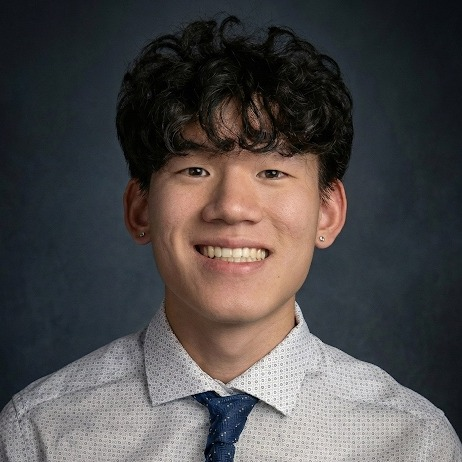
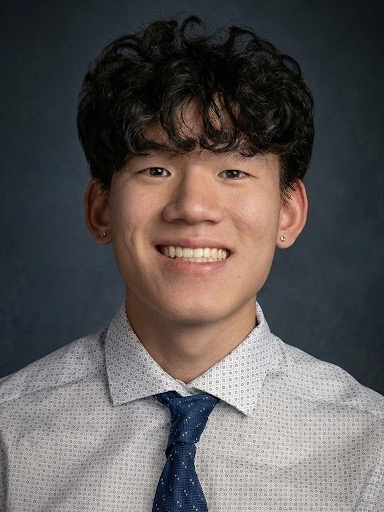
fix(site): restore hero entrance under reduced motion, monochrome cursor, portrait headshot
The hero resolve and the cursor were both gated on prefers-reduced-motion, so a
machine with Reduce Motion on saw a static mark and no cursor. Reduced motion
should reduce, not delete:

- PsiField now animates for everyone. Reduced motion gets a staggered
  top-to-bottom opacity sweep with every particle already at its target, so the
  mark still assembles without anything travelling across the screen. Scroll
  dissolve becomes opacity-only on the same path.
- The synchronous first paint is now conditional on document.hidden, so a
  visible tab is allowed to play the entrance instead of skipping to the end,
  and a background tab restarts the clock when it is first shown.
- Particles keep a slow per-phase pulse after resolving so the mark stays alive.
- Cursor is monochrome. The lock state reads as ring weight and size rather
  than a hue change.
- Headshot recropped to 3:4 portrait; team placeholders match.

diff --git a/src/components/PsiField.jsx b/src/components/PsiField.jsx
@@ -59,37 +59,50 @@ export function PsiField () {
       return found
     }
 
-    function render (progress) {
+    /**
+     * `pos` moves particles from noise to the glyph; `alpha` fades them in.
+     * Splitting the two is what lets reduced motion still have an entrance:
+     * the mark assembles in opacity while every particle stays put, so nothing
+     * travels across the screen.
+     */
+    function render (pos, alpha) {
       ctx.clearRect(0, 0, w, h)
-      if (!points.length) return
+      if (!points.length || alpha <= 0) return
 
       const cool = readToken('--color-cool', '#6E9BFF')
       const muted = readToken('--color-muted', '#6F7C90')
       const reduced = reducedQuery.matches
 
       // soft bloom so the mark reads against the ground
-      if (progress > 0.15) {
+      if (pos > 0.15) {
         const mid = points[Math.floor(points.length / 2)]
         const glow = ctx.createRadialGradient(mid.tx, mid.ty, 0, mid.tx, mid.ty, Math.min(w, h) * 0.42)
-        glow.addColorStop(0, `rgba(110, 155, 255, ${(0.13 * progress).toFixed(3)})`)
+        glow.addColorStop(0, `rgba(110, 155, 255, ${(0.13 * pos * alpha).toFixed(3)})`)
         glow.addColorStop(1, 'rgba(110, 155, 255, 0)')
         ctx.fillStyle = glow
         ctx.fillRect(0, 0, w, h)
       }
 
-      ctx.fillStyle = progress > 0.55 ? cool : muted
+      ctx.fillStyle = pos > 0.55 ? cool : muted
       for (let i = 0; i < points.length; i++) {
         const p = points[i]
-        const drift = reduced ? 0 : Math.sin(frame * 0.011 + p.phase) * (1 - progress) * 8
+        const drift = reduced ? 0 : Math.sin(frame * 0.011 + p.phase) * (1 - pos) * 8
+        // Once resolved, each particle keeps breathing on its own phase, so the
+        // mark stays alive rather than freezing into a static logo.
+        const pulse = reduced ? 1 : 1 + Math.sin(frame * 0.02 + p.phase) * 0.32 * pos
+        // Staggering the fade by height makes the mark develop top-to-bottom
+        // like a scan rather than flashing on all at once. It is the entrance
+        // reduced-motion users get in place of the travelling particles.
+        const local = alpha >= 1 ? 1 : Math.max(0, Math.min(1, alpha * 1.6 - p.stagger * 0.6))
         ctx.beginPath()
         ctx.arc(
-          p.nx + (p.tx - p.nx) * progress + drift,
-          p.ny + (p.ty - p.ny) * progress + drift * 0.55,
-          1.35 + progress * 0.85,
+          p.nx + (p.tx - p.nx) * pos + drift,
+          p.ny + (p.ty - p.ny) * pos + drift * 0.55,
+          1.35 + pos * 0.85,
           0,
           Math.PI * 2
         )
-        ctx.globalAlpha = 0.24 + progress * 0.56
+        ctx.globalAlpha = (0.24 + pos * 0.56) * local * pulse
         ctx.fill()
       }
       ctx.globalAlpha = 1
@@ -97,10 +110,16 @@ export function PsiField () {
 
     function loop () {
       frame++
-      const e = Math.min(1, (performance.now() - started) / 2400)
-      const resolve = e * e * (3 - 2 * e)
+      const reduced = reducedQuery.matches
+      const e = Math.min(1, (performance.now() - started) / (reduced ? 1400 : 2400))
+      const eased = e * e * (3 - 2 * e)
       const scrolled = Math.min(1, window.scrollY / Math.max(1, window.innerHeight * 0.9))
-      render(Math.max(0, resolve - scrolled))
+
+      // Reduced motion: particles are already home, the entrance is pure fade,
+      // and scrolling dissolves the mark by opacity instead of by displacement.
+      if (reduced) render(1, Math.max(0, eased - scrolled))
+      else render(Math.max(0, eased - scrolled), 1)
+
       raf = requestAnimationFrame(loop)
     }
 
@@ -118,6 +137,8 @@ export function PsiField () {
       const targets = glyphTargets()
       const cap = window.innerWidth < 700 ? 700 : 1500
       const count = Math.min(targets.length, cap)
+      const top = Math.min(...targets.map((t) => t.y))
+      const span = Math.max(1, Math.max(...targets.map((t) => t.y)) - top)
       points = []
       for (let i = 0; i < count; i++) {
         const t = targets[Math.floor((i * targets.length) / count)]
@@ -127,14 +148,18 @@ export function PsiField () {
           ny: Math.random() * h,
           tx: t.x,
           ty: t.y,
-          phase: Math.random() * Math.PI * 2
+          phase: Math.random() * Math.PI * 2,
+          // mostly a top-to-bottom sweep, softened so the edge is not a hard line
+          stagger: Math.min(1, ((t.y - top) / span) * 0.85 + Math.random() * 0.15)
         })
       }
 
       started = performance.now()
-      const reduced = reducedQuery.matches
-      render(reduced ? 1 : 0)
-      if (!reduced) raf = requestAnimationFrame(loop)
+      // A hidden tab never runs rAF, so paint the resolved mark straight away
+      // rather than leaving the hero empty. A visible tab starts from noise and
+      // is allowed to animate — that entrance is the whole point of the hero.
+      if (document.hidden) render(1, 1)
+      raf = requestAnimationFrame(loop)
     }
 
     // Sample the glyph only once the serif has loaded, or it traces a fallback.
@@ -145,13 +170,25 @@ export function PsiField () {
       clearTimeout(resizeTimer)
       resizeTimer = setTimeout(build, 180)
     }
+    // If the page loaded in a background tab the resolve would have run against
+    // a throttled clock and be over before anyone looked. Restart it on the
+    // first time the tab is actually shown.
+    let seen = !document.hidden
+    const onVisible = () => {
+      if (document.hidden || seen) return
+      seen = true
+      started = performance.now()
+    }
+
     window.addEventListener('resize', onResize)
+    document.addEventListener('visibilitychange', onVisible)
     reducedQuery.addEventListener('change', build)
 
     return () => {
       clearTimeout(resizeTimer)
       if (raf) cancelAnimationFrame(raf)
       window.removeEventListener('resize', onResize)
+      document.removeEventListener('visibilitychange', onVisible)
       reducedQuery.removeEventListener('change', build)
     }
   }, [])

diff --git a/src/components/Cursor.jsx b/src/components/Cursor.jsx
@@ -88,8 +88,9 @@ export function Cursor () {
         ctx.clearRect(0, 0, w, h)
 
         if (visible) {
-          const cool = readToken('--color-cool', '#6E9BFF')
-          const warm = readToken('--color-warm', '#FF7F6B')
+          // Monochrome by design. A two-colour cursor competes with the page for
+          // attention; a white instrument reads as part of the interface.
+          const ink = readToken('--color-ink', '#E9EDF4')
 
           if (reduced) {
             rx = px
@@ -100,14 +101,14 @@ export function Cursor () {
 
             // signal trace
             if (trail.length > 1) {
-              ctx.lineWidth = 1.2
-              ctx.strokeStyle = cool
+              ctx.lineWidth = 1
+              ctx.strokeStyle = ink
               for (let i = 1; i < trail.length; i++) {
                 const a = trail[i]
                 const b = trail[i - 1]
                 const amp = (a.v / MAX_V) * 8
                 ctx.beginPath()
-                ctx.globalAlpha = a.a * 0.42
+                ctx.globalAlpha = a.a * 0.22
                 ctx.moveTo(b.x, b.y + Math.sin((i - 1) * 0.85) * amp)
                 ctx.lineTo(a.x, a.y + Math.sin(i * 0.85) * amp)
                 ctx.stroke()
@@ -120,17 +121,18 @@ export function Cursor () {
 
           const radius = locked ? 24 : 14
 
-          // ring
+          // ring — the lock state reads as weight and size, never as hue
           ctx.beginPath()
           ctx.arc(rx, ry, radius, 0, Math.PI * 2)
-          ctx.strokeStyle = locked ? warm : cool
-          ctx.lineWidth = locked ? 1.8 : 1.2
-          ctx.globalAlpha = locked ? 1 : 0.7
+          ctx.strokeStyle = ink
+          ctx.lineWidth = locked ? 1.5 : 1
+          ctx.globalAlpha = locked ? 0.85 : 0.4
           ctx.stroke()
 
           // reticle ticks, so hovering reads as an instrument acquiring a target
           if (locked) {
-            ctx.lineWidth = 1.4
+            ctx.lineWidth = 1.2
+            ctx.globalAlpha = 0.85
             for (let i = 0; i < 4; i++) {
               const angle = (Math.PI / 2) * i
               const dx = Math.cos(angle)
@@ -143,11 +145,13 @@ export function Cursor () {
           }
           ctx.globalAlpha = 1
 
-          // core
+          // core — the one element that tracks the pointer exactly
           ctx.beginPath()
-          ctx.arc(px, py, locked ? 1.4 : 2.6, 0, Math.PI * 2)
-          ctx.fillStyle = warm
+          ctx.arc(px, py, locked ? 1.2 : 2.2, 0, Math.PI * 2)
+          ctx.fillStyle = ink
+          ctx.globalAlpha = 0.95
           ctx.fill()
+          ctx.globalAlpha = 1
 
           velocity *= 0.9
 

diff --git a/src/pages/Home.jsx b/src/pages/Home.jsx
@@ -77,14 +77,14 @@ export default function Home () {
                   <img
                     src={m.photo}
                     alt={m.name}
-                    width="462"
-                    height="462"
-                    className="aspect-square w-full max-w-[13rem] rounded-sm border border-ink/13 object-cover grayscale transition-[filter] duration-300 group-hover:grayscale-0"
+                    width="384"
+                    height="512"
+                    className="aspect-[3/4] w-full max-w-[13rem] rounded-sm border border-ink/13 object-cover grayscale transition-[filter] duration-300 group-hover:grayscale-0"
                   />
                 ) : (
                   <div
                     aria-hidden="true"
-                    className="flex aspect-square w-full max-w-[13rem] items-center justify-center rounded-sm border border-ink/13 bg-surface font-serif text-[2.4rem] text-muted"
+                    className="flex aspect-[3/4] w-full max-w-[13rem] items-center justify-center rounded-sm border border-ink/13 bg-surface font-serif text-[2.4rem] text-muted"
                   >
                     {m.initials}
                   </div>
